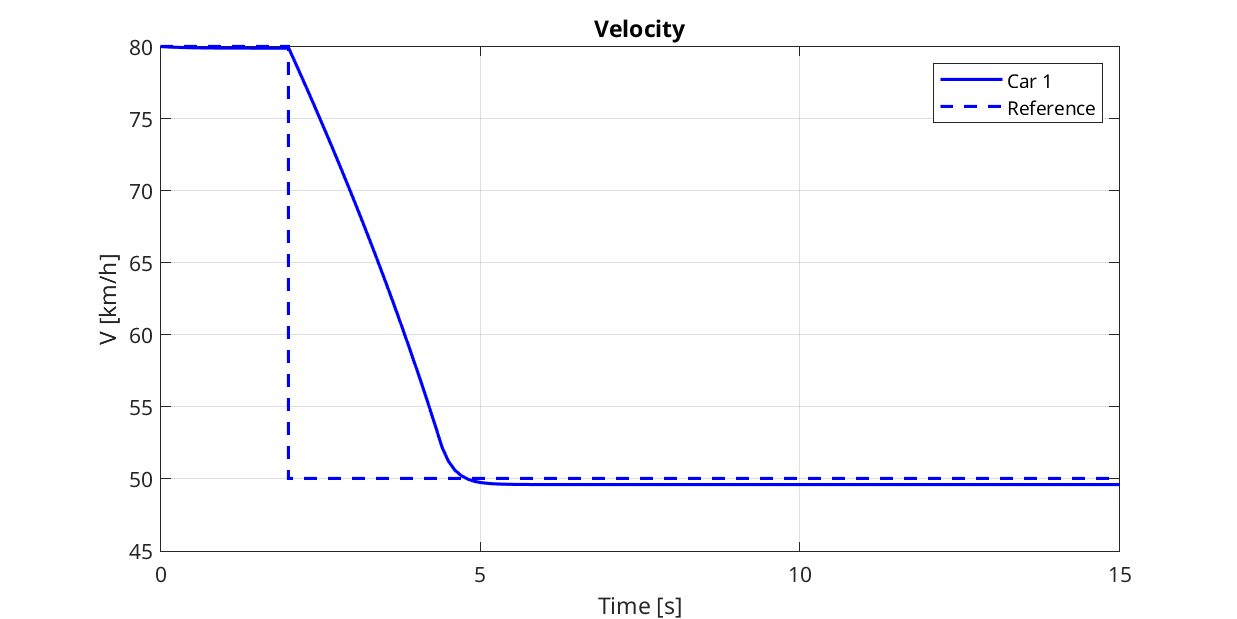
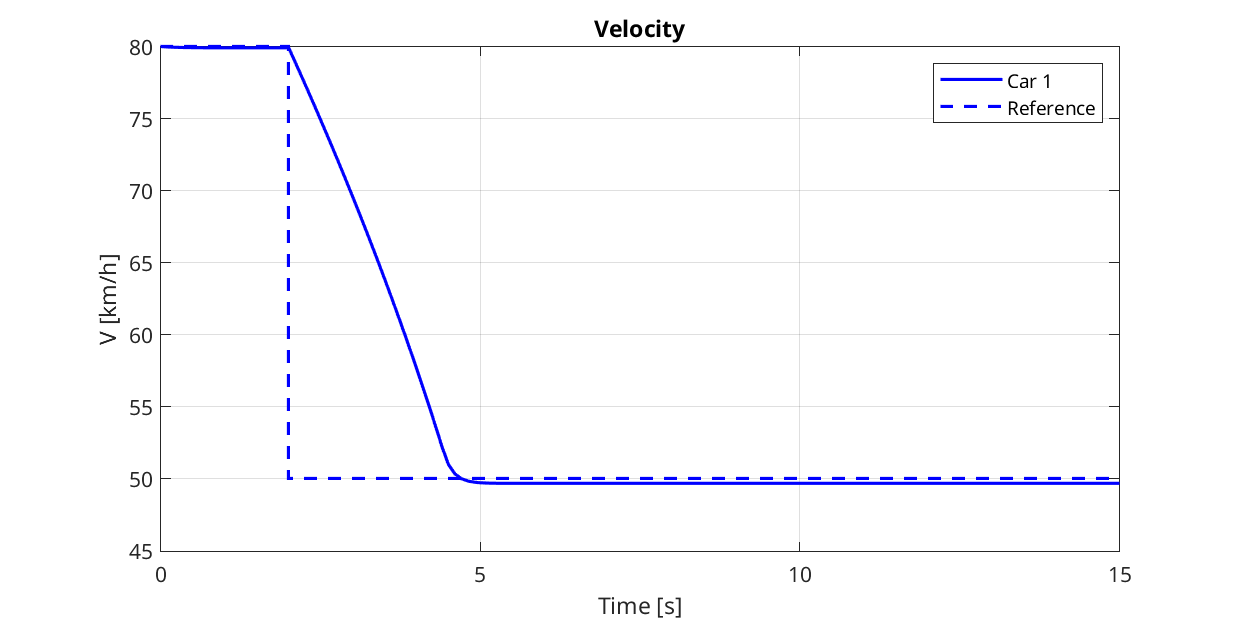
Deliverable 4 finished

Changed region(s): [[0.3686, 0.7674, 0.9216, 0.7981], [0.3379, 0.7367, 0.3686, 0.7674]]

diff --git a/Deliverable_6/Deliverable_6_1/NmpcControl.m b/Deliverable_6/Deliverable_6_1/NmpcControl.m
@@ -58,7 +58,7 @@ classdef NmpcControl < handle
             % Cost function weights
             Q_track = diag([0, 20, 5, 50]);    % State tracking weights:
                                               % [x position (unused), y position, heading angle, velocity]
-                                              % Higher weight (30) on velocity tracking
+                                              % Higher weight (50) on velocity tracking
             R_track = diag([10, 10]);         % Input cost weights for smoother control:
                                               % [steering angle, throttle]
             Q_term = Q_track/2;               % Terminal cost weight (typically smaller than tracking cost)

diff --git a/Deliverable_4/offset_free_tracking.m b/Deliverable_4/offset_free_tracking.m
@@ -5,7 +5,7 @@ clc
 %% Initialize MPC Controllers
 
 Ts = 1/10;                               % Sample time: 0.1 seconds
-H = 3;                                  % Prediction horizon: 2 seconds
+H = 3;                                   % Prediction horizon: 3 seconds
 
 % Setup car and get linearized model
 car = Car(Ts);
@@ -37,4 +37,4 @@ params.myCar.ref = car.ref_step(ref1, ref2, 2); % delay reference step by 2s;
 result = simulate(params);
 visualization(car, result);
 
-% [f1, f2, f3, f4, f5, f6] = plot_results(result);
+%[f1, f2, f3, f4, f5, f6] = plot_results(result);

diff --git a/Deliverable_6/Deliverable_6_1/non_linear_mpc.m b/Deliverable_6/Deliverable_6_1/non_linear_mpc.m
@@ -49,7 +49,7 @@ xlabel('time [s]');
 
 x0 = [0 0 0 80/3.6]'; % (x, y, theta, V)
 ref1 = [0 80/3.6]'; % (y ref, V ref)
-ref2 = [0 100/3.6]'; % (y ref, V ref)
+ref2 = [3 100/3.6]'; % (y ref, V ref)
 params = {};
 params.Tf = 15;
 params.myCar.model = car;
@@ -57,5 +57,7 @@ params.myCar.x0 = x0;
 params.myCar.u = @mpc.get_u;
 params.myCar.ref = car.ref_step(ref1, ref2, 2); % delay reference step by 2s
 result = simulate(params);
-visualization(car, result);
+%visualization(car, result);
+
+[f1, f2, f3, f4, f5, f6] = plot_results(result);
 

diff --git a/Deliverable_4/plot_results.m b/Deliverable_4/plot_results.m
@@ -4,7 +4,6 @@ function [f1, f2, f3, f4, f5, f6] = plot_results(result, varargin)
 % throttle, steering, disturbance estimation, and relative distance
 %
 % Inputs:
-%   car - Structure containing vehicle parameters
 %   result - Structure containing simulation results
 %   varargin - Optional input for save directory (default: 'plots')
 %
